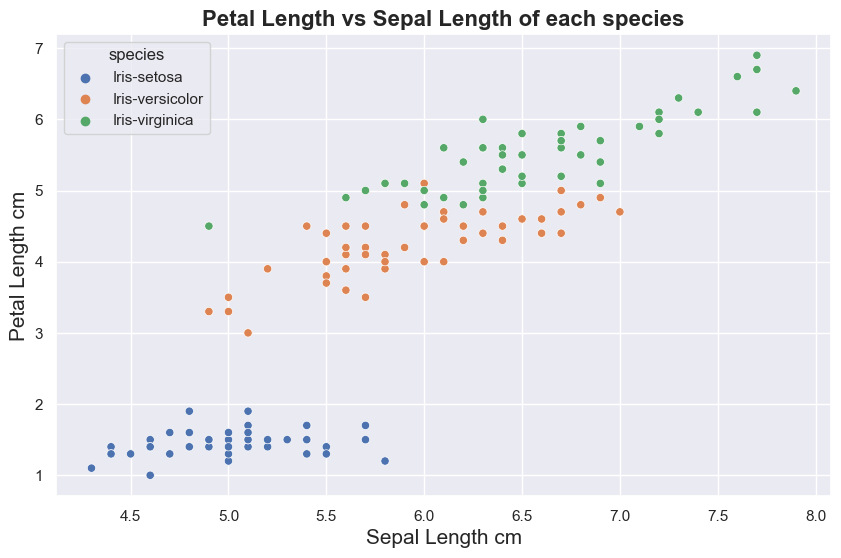
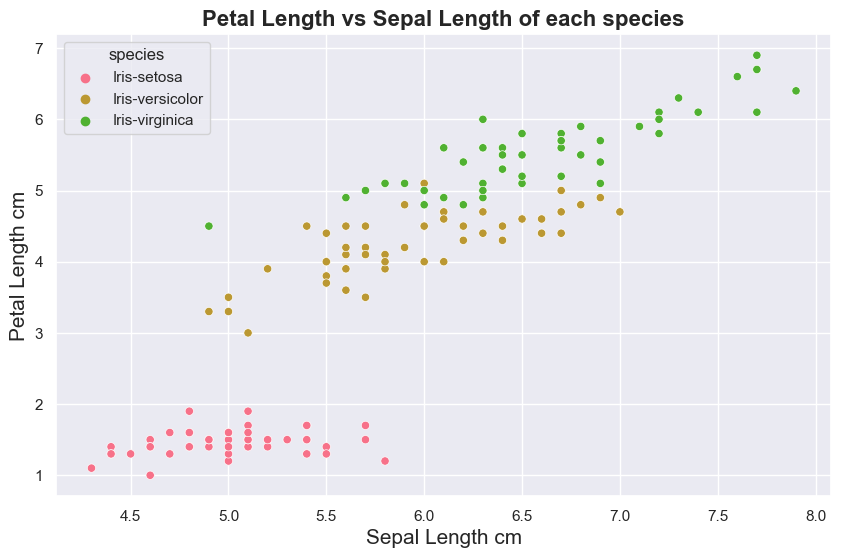
Updating plots - consistency is getting better

diff --git a/dataVis.py b/dataVis.py
@@ -64,9 +64,9 @@ def petal_relation():
     
 def petal_sepal_length_relation():
     plt.figure(figsize=(10,6))
-    sns.set(style="darkgrid")
+    sns.set(style="darkgrid", palette='husl')
     plt.title("Petal Length vs Sepal Length of each species", fontsize = 16, fontweight='bold')
-    sns.color_palette("Paired")
+    #sns.color_palette("Paired")
     sns.scatterplot( data= df,
                 x="sepal_length", y="petal_length",
                 hue="species"
@@ -78,9 +78,8 @@ def petal_sepal_length_relation():
 
 def petal_sepal_width_relation():
     plt.figure(figsize=(10,6))
-    sns.set(style="darkgrid")
+    sns.set(style="darkgrid", palette='husl')
     plt.title("Petal Width vs Sepal Width of each species", fontsize = 16, fontweight='bold')
-    sns.color_palette("Paired")
     sns.scatterplot( data= df,
                 x="sepal_width", y="petal_width",
                 hue="species"
@@ -182,7 +181,7 @@ def species_histo():
 # Function calls for testing
 # Commented out because analysis.py is 
 # doing the calling of the functions below.
-"""
+#"""
 petal_relation() 
 sepal_relation()
 species()
@@ -194,4 +193,4 @@ box_violin_plots()
 histo_plots()
 kde()
 species_histo()
-"""
+#"""
